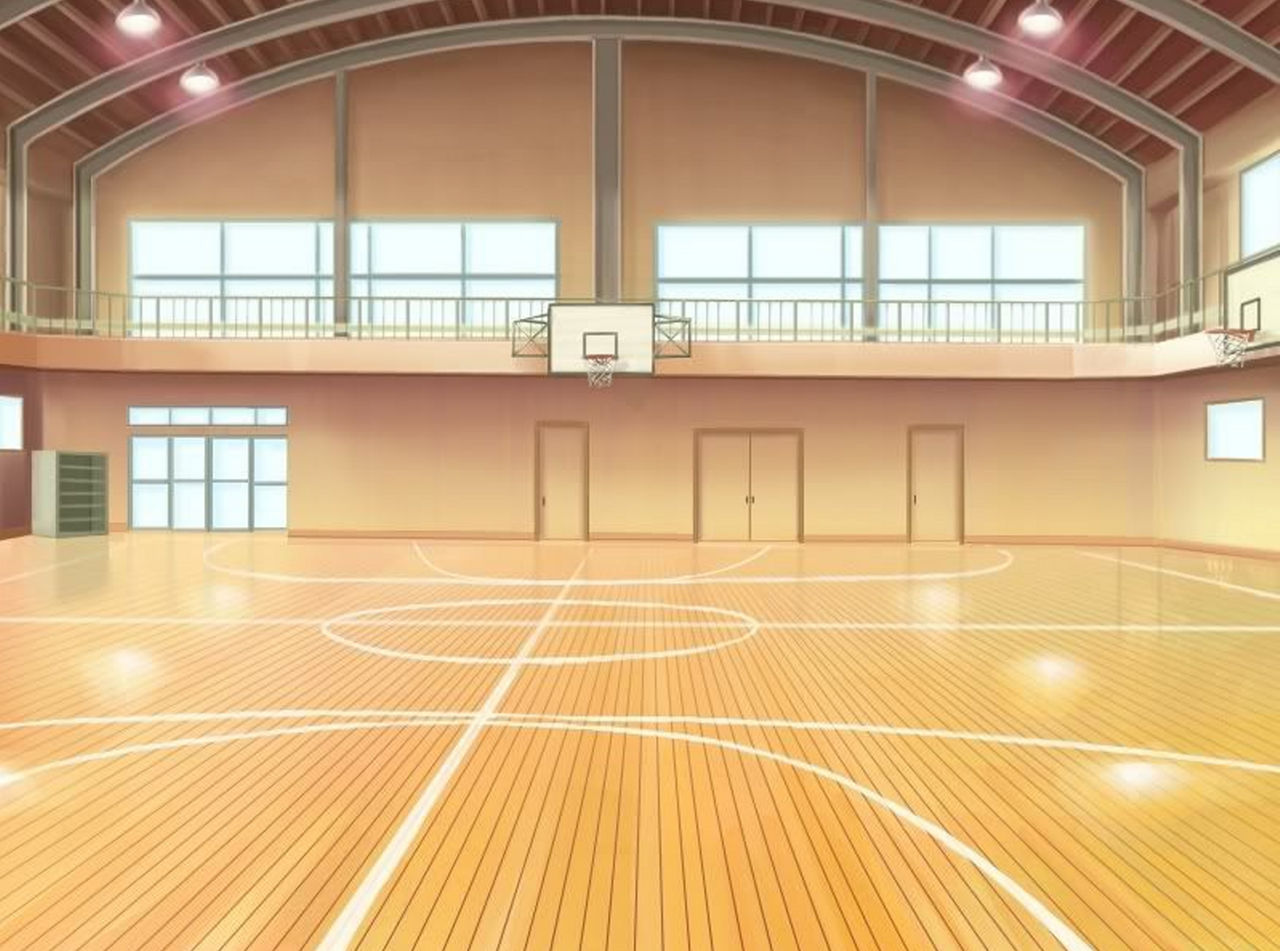
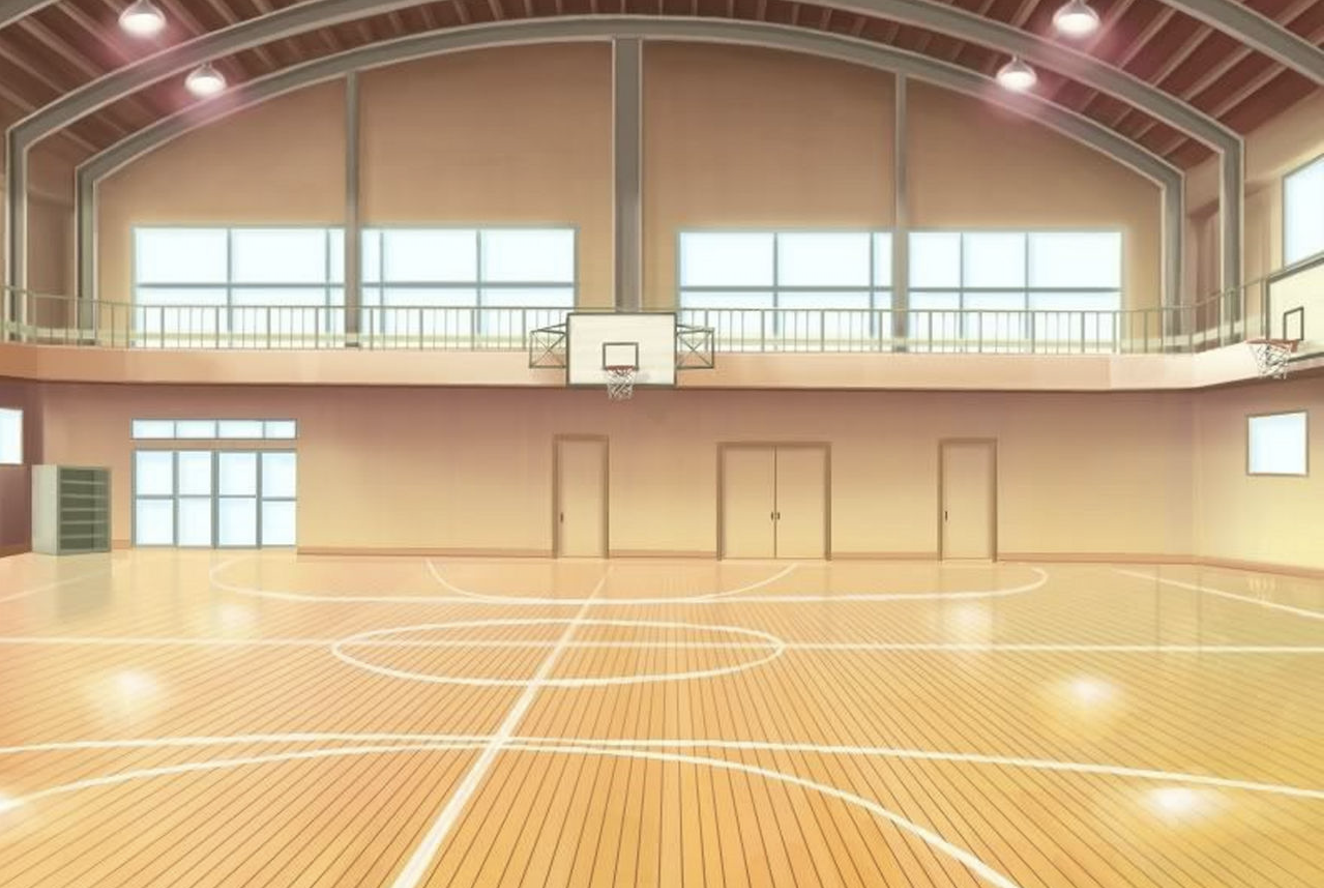
Add files via upload
overlayed character on background

diff --git a/game.js b/game.js
@@ -1,5 +1,5 @@
 const textElement = document.getElementById('text')
-const imageElement = document.getElementById('image')
+const imageElement = document.getElementById('character-image')
 const optionButtonsElement = document.getElementById('option-buttons');
 const musicElement = document.getElementById('music')
 const backgroundElement = document.getElementById('background-image')
@@ -15,8 +15,12 @@ function startGame() {
 function showTextNode(textNodeIndex) {
   const textNode = textNodes.find(textNode => textNode.id === textNodeIndex)
   textElement.innerText = textNode.text
-  imageElement.innerHTML = `<img src="${textNode.image}" alt="${textNode.alt}" /><br />`;
-  backgroundElement.innerHTML = `<img src="${textNode.background}" alt="${textNode.alt}" /><br />`;
+  
+  var char_img = document.getElementById("character-image");
+  char_img.src = textNode.image;
+  var bkgd_img = document.getElementById("background-image");
+  bkgd_img.src = textNode.background;
+  
 
   while (optionButtonsElement.firstChild) {
     optionButtonsElement.removeChild(optionButtonsElement.firstChild)

diff --git a/index.html b/index.html
@@ -7,22 +7,12 @@
         <script defer src="game.js"></script>
     </head>
     <body>
-<<<<<<< Updated upstream
-        <div id="music">Music</div>
-        <h1>High School Murder Mystery</h1>
-=======
-        <!-- <h1>High School Murder Mystery</h1> -->
->>>>>>> Stashed changes
+        <div id="music"></div>
         <div class="container">
             <div class="story-pane">
-                <p>story pane</p>
                 <div class="cropped">
-<<<<<<< Updated upstream
-                    <div id="background-image">Background-image</div>
-                    <div id="image">Image</div>
-=======
-                    <img src="/Character_PNGs/1256x1689.png" width="00" style="object-fit: contain;">
->>>>>>> Stashed changes
+                    <img id="background-image" src="Background_PNGs/gym.png">
+                    <img id="character-image" src="/Character_PNGs/1256x1689.png">
                 </div>
                 <div class="dialogue-pane">
                     <p>dialogue pane</p>

diff --git a/style.css b/style.css
@@ -33,9 +33,26 @@ body {
 }
 
 .cropped {
-    width: 500px;
-    height: 400px;
-    overflow: hidden;
+    border: 1px solid purple;
+    width: 100%;
+    height: 75%;
+}
+
+#background-image {
+    width: 100%;
+    height: auto;
+    position: relative;
+}
+
+#character-image {
+    position: absolute;
+    height: 85%;
+    
+    margin-left: auto;
+    margin-right: auto;
+    left: 0;
+    right: 0;
+    bottom: 0;
 }
 
 .dialogue-pane {
